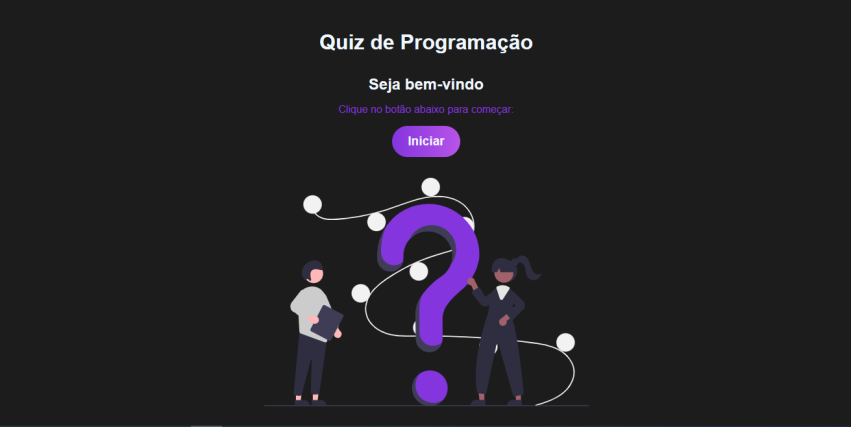
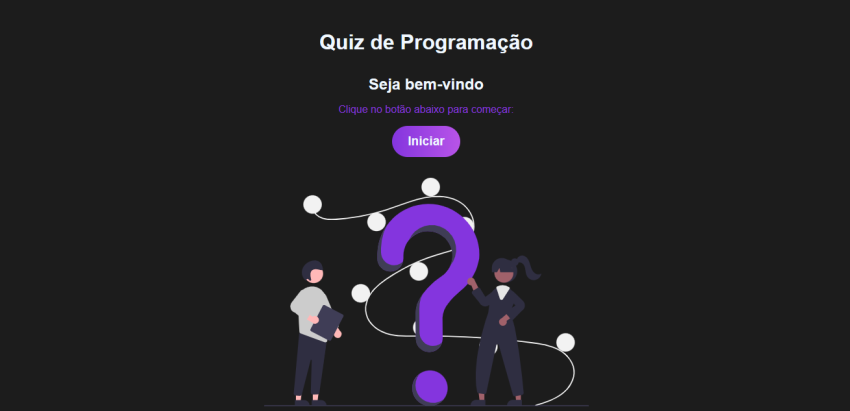
⬇ Update: Descrição

Changed region(s): [[0.0, 0.4088, 1.0, 1.0], [0.3976, 0.1752, 0.6118, 0.3796], [0.3671, 0.0584, 0.6424, 0.146]]

diff --git a/React/React Project/README.md b/React/React Project/README.md
@@ -1,6 +1,8 @@
 # PROJECT: REACT Quiz
 
-<img src="quiz/src/img/image.png">
+<div align="center">
+    <img src="quiz/src/img/image.png">
+</div>
 
 <hr>
 
